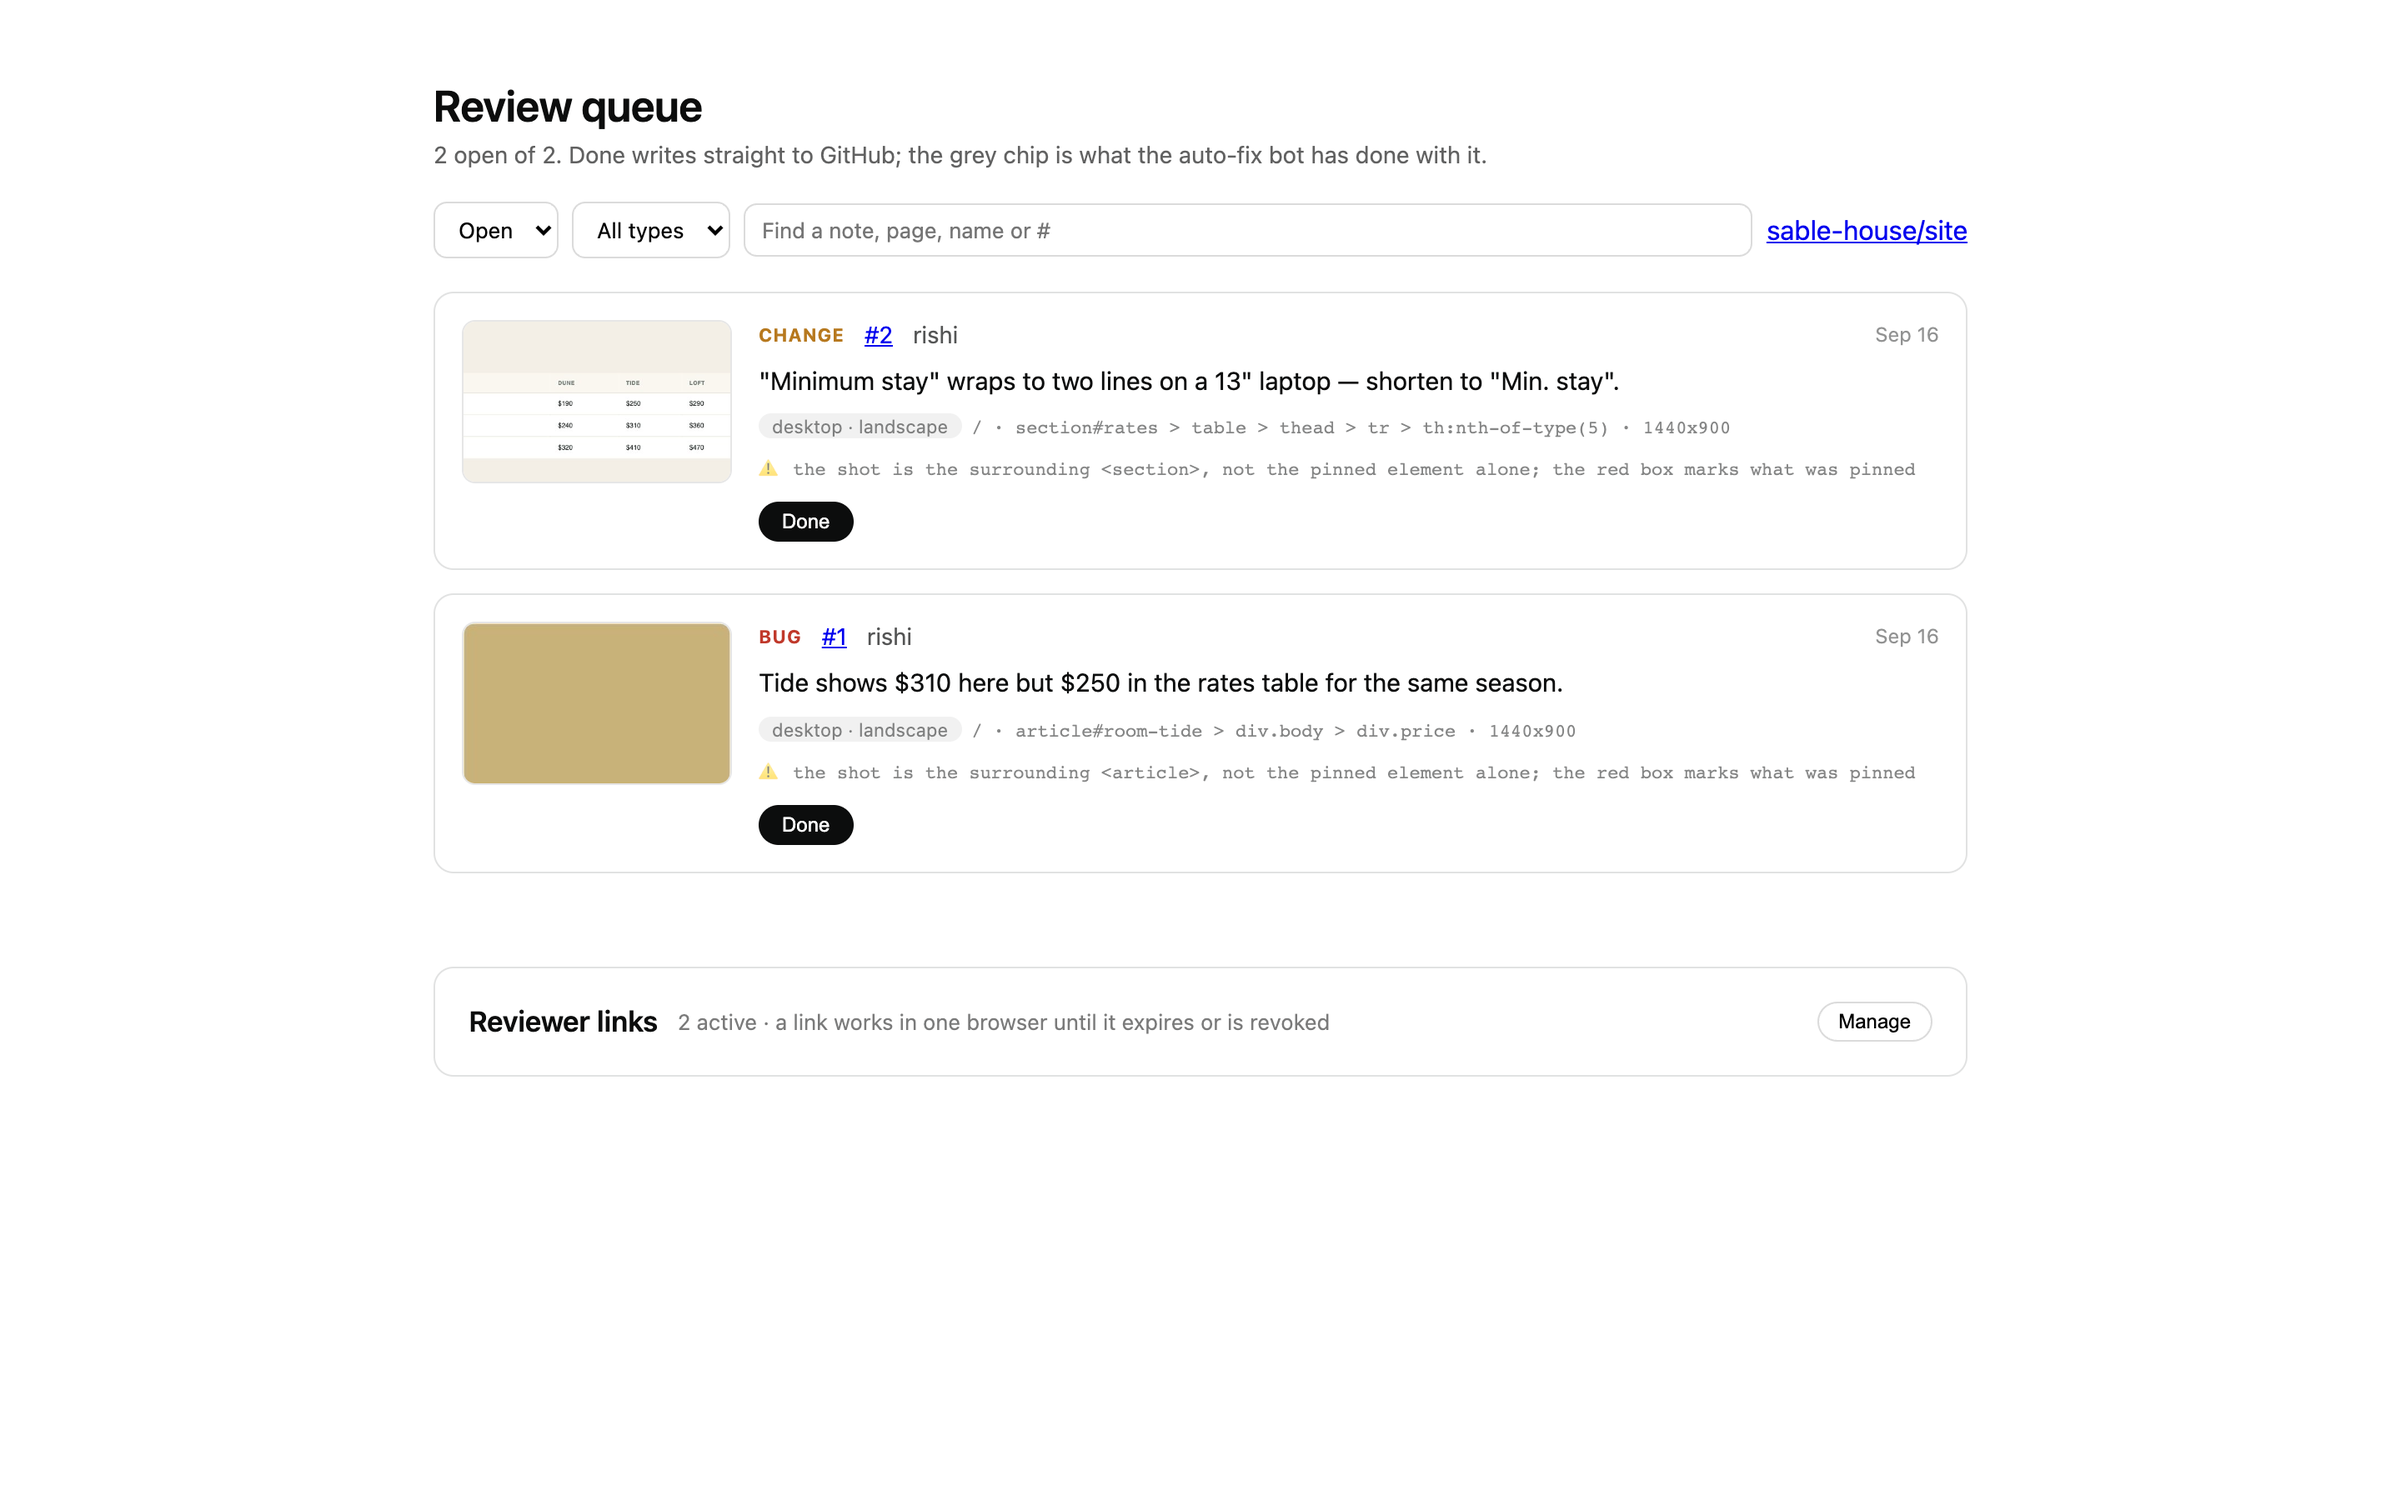
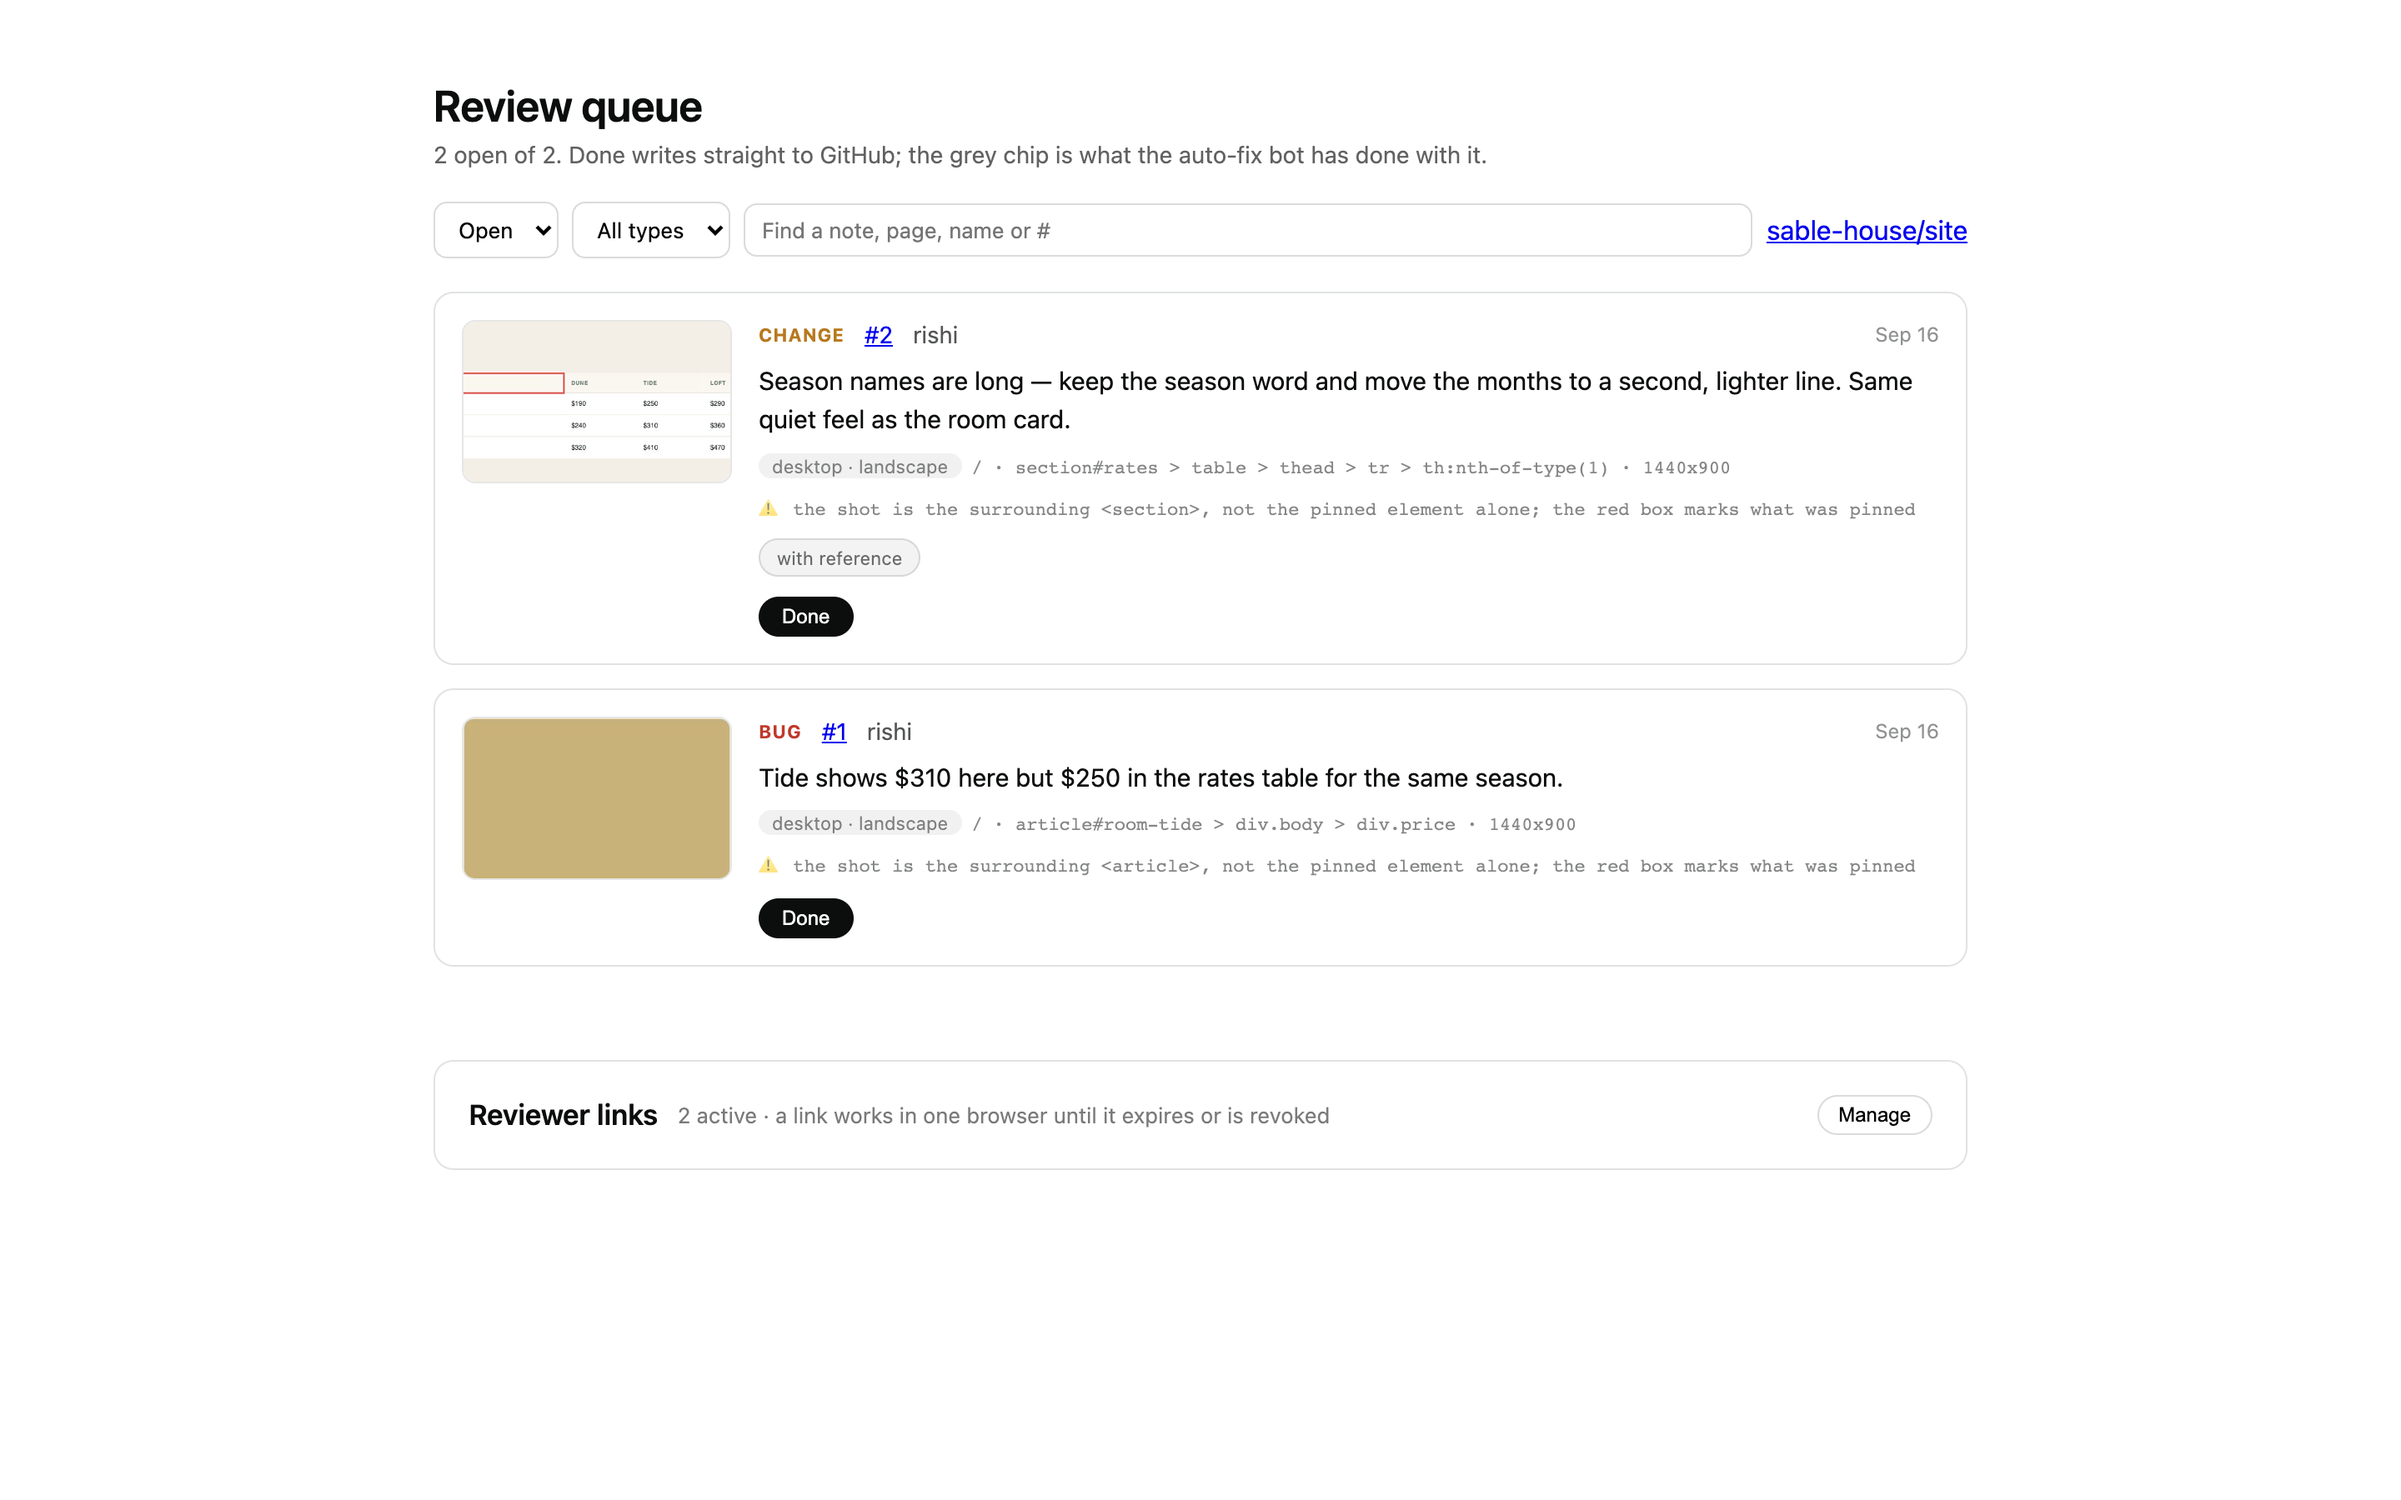
0.6.0 in the docs lane: imredline-fix reads a report's inspiration clip; media regenerated with the Inspiration row and the with-reference chip

diff --git a/README.md b/README.md
@@ -97,7 +97,7 @@ Without the GitHub variables every write returns 503 and the widget says so. It 
 
 | A report being written | The queue |
 |---|---|
-| ![Report dialog pinned to a call-to-action: type, note, device chip, screenshot attached](docs/media/01-review.png) | ![Review queue with two open reports, thumbnails and Done buttons](docs/media/02-queue.png) |
+| ![Report dialog pinned to a call-to-action: type, note, an Inspiration row with a chosen clip, device chip, screenshot attached](docs/media/01-review.png) | ![Review queue with two open reports, thumbnails, a “with reference” chip on the one that carries a clip, and Done buttons](docs/media/02-queue.png) |
 
 | ✂ Clip a component | The clips gallery |
 |---|---|
@@ -151,7 +151,7 @@ One clip is one commit. A coding agent building a new site reads the branch — 
 
 ## Fix the review queue from a terminal
 
-Reports are plain GitHub issues, so any coding agent can work them. The repo ships a skill for Claude Code that makes it one sentence: **"Fix the review queue."** It lists the open reports, opens each screenshot, finds the element in the code, makes one commit per report, runs the repo's checks, ships the way the repo ships, and closes each issue with the commit in a comment.
+Reports are plain GitHub issues, so any coding agent can work them. The repo ships a skill for Claude Code that makes it one sentence: **"Fix the review queue."** It lists the open reports, opens each screenshot, finds the element in the code, makes one commit per report, runs the repo's checks, ships the way the repo ships, and closes each issue with the commit in a comment. When a report carries inspiration (a clip the reviewer picked in the dialog), the skill reads that clip's README, CSS and screenshot and rebuilds the idea in the site's own words and brand — never the source's text, images or code.
 
 <p align="center">
   <img src="docs/media/demo-fix.gif" alt="Terminal: claude › Fix the review queue — lists two reports, reads the screenshots, two one-line commits, tests pass, push, both issues closed with receipts" width="900">

diff --git a/skills/imredline-fix/SKILL.md b/skills/imredline-fix/SKILL.md
@@ -39,6 +39,14 @@ Scripts live next to this file; they need `gh` signed in. Never print tokens.
    pinned, and the picture often says more than the note. A `shot note` line
    means the picture is the surrounding section, not the element alone.
 
+   **A report can carry inspiration** (0.6.0): an `inspiration:` line naming a
+   clip (`clips/<collection>/<slug>` on a repo). The reviewer is saying "make it
+   more like this". Read that clip's `README.md`, `component.css` and
+   `screenshot.jpg` from the `imredline-clips` branch (the `show` output prints
+   the `gh api` line) and take the *idea* — the layout, the rhythm, the
+   hierarchy. Never copy its text, images, logos, animation files or code; the
+   issue body says so and the clip's source may be someone else's site.
+
 3. **Find the code.** The selector is the rendered DOM, not the source; map it
    to the component: grep for the `id`, a distinctive class, or the visible
    text from the screenshot. The page path narrows which route.
